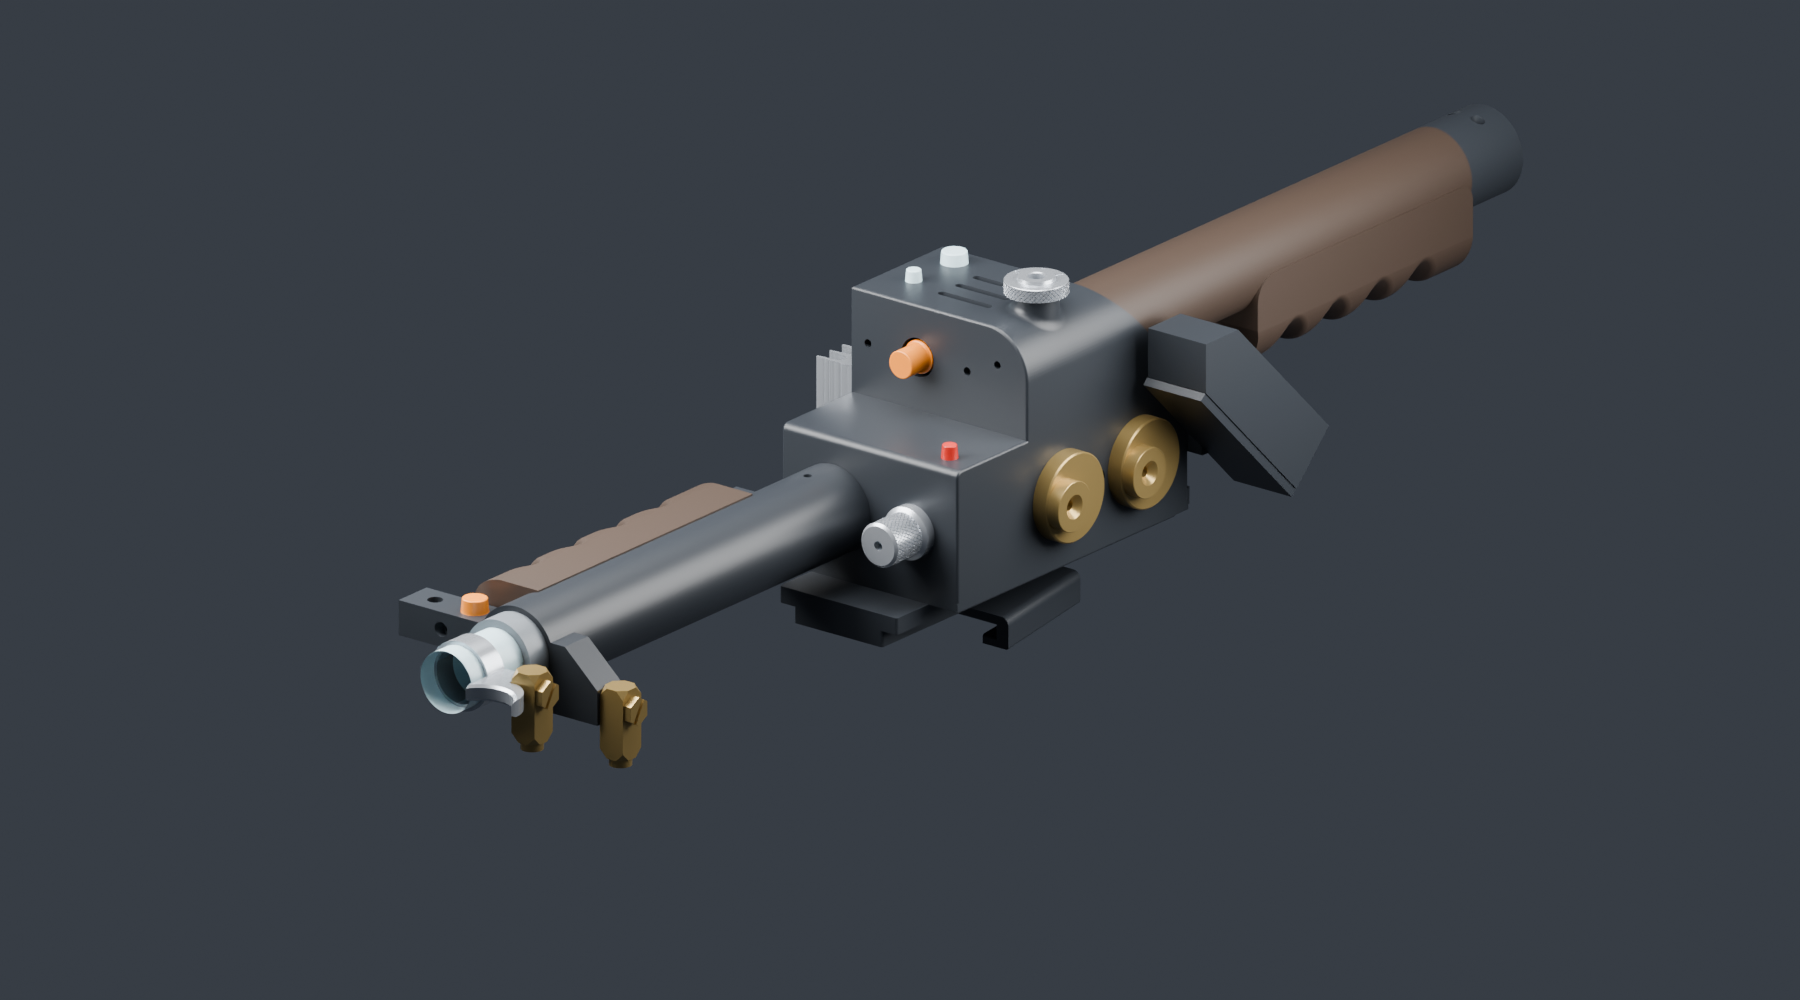
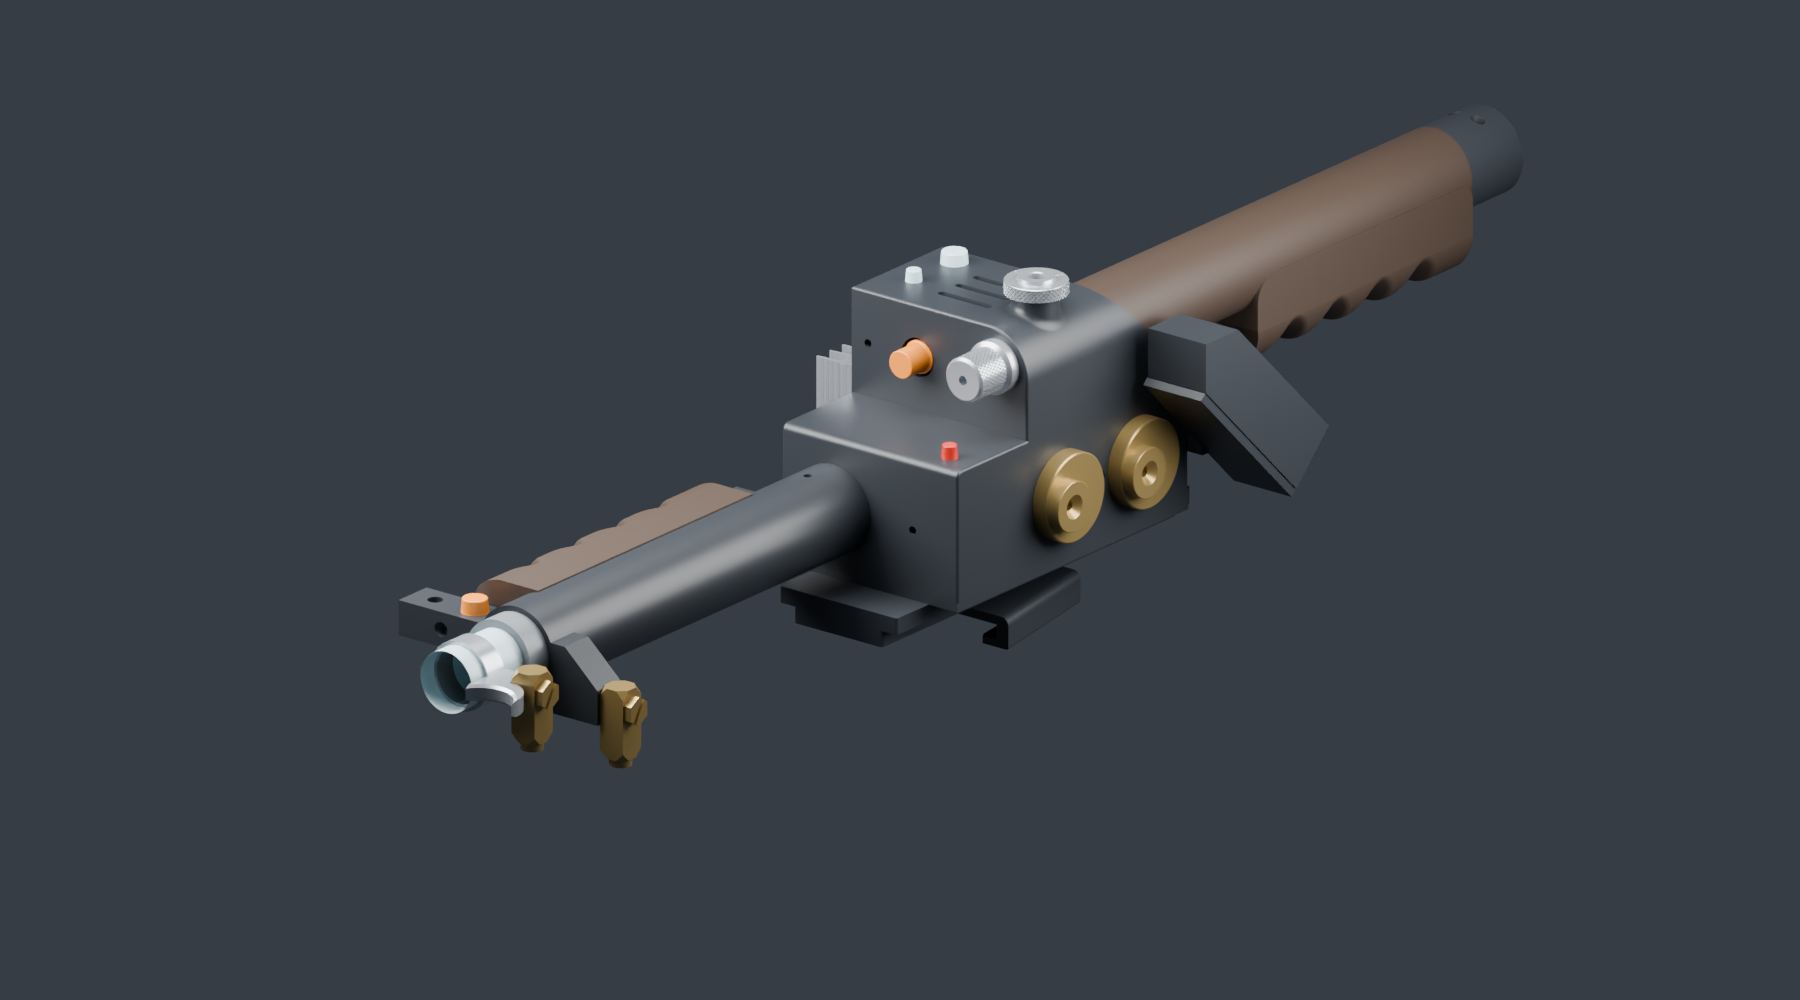
Seat wand front knob on upper body tier
Match upper locating axis and wall face; distinguish lower connector fixing and document missing wand valve.

Changed region(s): [[0.4667, 0.496, 0.5289, 0.62], [0.5289, 0.341, 0.5911, 0.403]]

diff --git a/index.html b/index.html
@@ -375,8 +375,8 @@
       <div class="assembly-switch">
         <button class="btn" id="assembly-pack" onclick="switchAssembly('pack')">Proton Pack</button>
         <button class="btn" id="assembly-wand" onclick="switchAssembly('wand')">Wand</button>
-        <a class="btn" id="pack-reference-link" href="assets/pack_assembled_reference.png?v=front-banjos-v9" target="_blank" rel="noopener noreferrer">Assembled pack render</a>
-        <a class="btn" id="wand-reference-link" href="assets/wand_assembled_reference.png?v=front-banjos-v9" target="_blank" rel="noopener noreferrer">Assembled wand render</a>
+        <a class="btn" id="pack-reference-link" href="assets/pack_assembled_reference.png?v=upper-knob-v10" target="_blank" rel="noopener noreferrer">Assembled pack render</a>
+        <a class="btn" id="wand-reference-link" href="assets/wand_assembled_reference.png?v=upper-knob-v10" target="_blank" rel="noopener noreferrer">Assembled wand render</a>
         <button class="btn" onclick="exportProgress()">Export Progress</button>
         <button class="btn" onclick="document.getElementById('progress-import').click()">Import Progress</button>
         <input type="file" accept=".json,application/json" id="progress-import" hidden onchange="importProgress(this)">
@@ -781,7 +781,7 @@
         const labels = isPack ? ['Isometric', 'Wand Dock / Right', 'Backboard Side', 'Left Shoulder', 'Pack Face'] :
           ['Isometric', 'Docking / Underside', 'Rear Boxes', 'Side / Knobs', 'Front Grip'];
         document.querySelectorAll('[data-view]').forEach((button, i) => button.textContent = labels[i]);
-        const gltf = await new THREE.GLTFLoader().loadAsync(`assets/${kind}_assembly.glb?v=front-banjos-v9`);
+        const gltf = await new THREE.GLTFLoader().loadAsync(`assets/${kind}_assembly.glb?v=upper-knob-v10`);
         incomingModel = gltf.scene;
         if (version !== loadVersion) {
           disposeModel(incomingModel);

diff --git a/README.md b/README.md
@@ -184,7 +184,12 @@ meaning; `left_big_knob_2` and `left_small_knob_2` are separate new pieces that
 start pending, including when importing older progress. The rear box and cover
 are registered to the body screws and rear face; the rear hose nut, small right
 knob and heat sink are seated on their matching features.
-`scripts/wand-mounting-constraints.json` adds19source-local axis/seating checks.
+`scripts/wand-mounting-constraints.json` adds21source-local axis/seating checks.
+The front knurled knob sits on the upper vertical tier atX-25/Z72.333mm,
+beside the wand valve location. The lower face'sX-18.5/Z22.22mm opening matches
+the internal front-grip connector's M3 fixing axis; it is not a knob mounting
+site. The separate wand Clippard valve remains missing from this preview and
+its modeled-piece count; the pack valve is not a substitute for it.
 The finger-grooved front grip projects sideways from the barrel, not underneath
 it. Its plain screw end faces the rear ear; its angled screw end faces the front
 ear. The rear face seats atY101.19mm. Native geometry leaves approximately0.197mm
